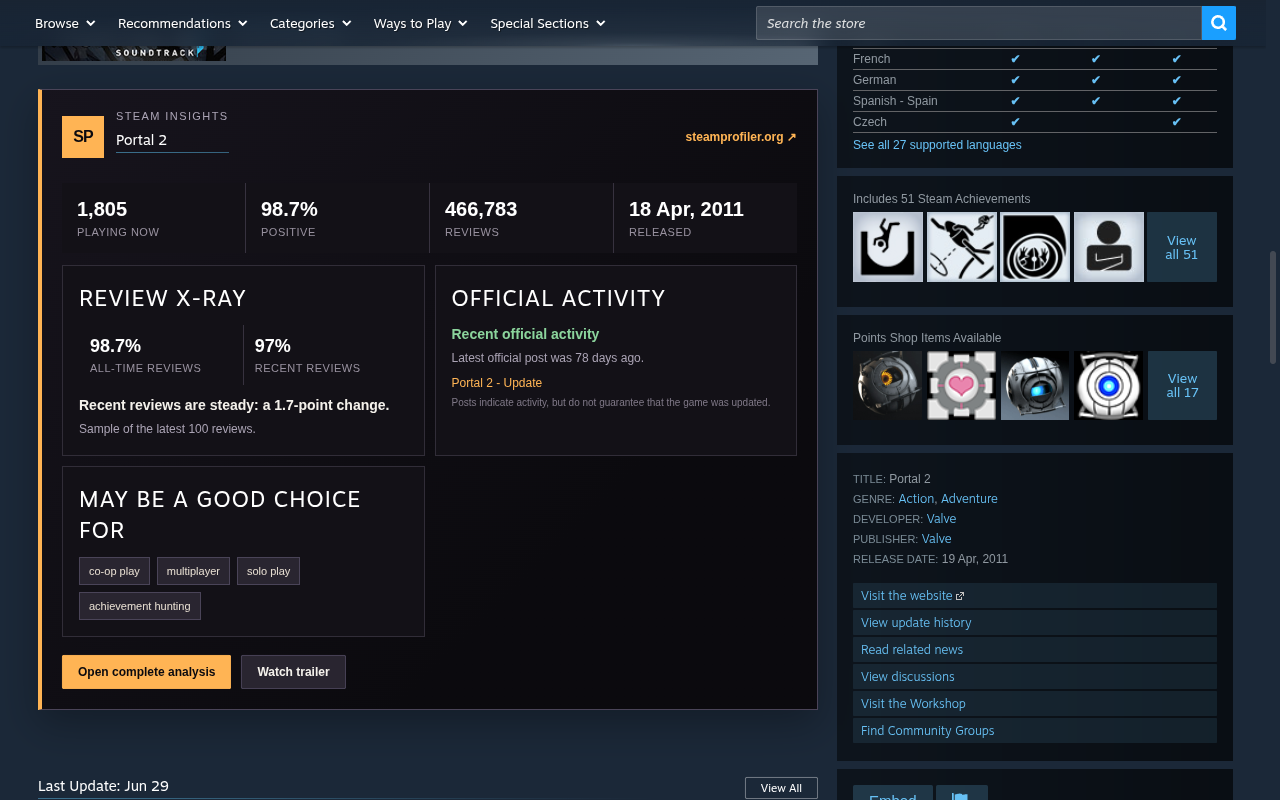
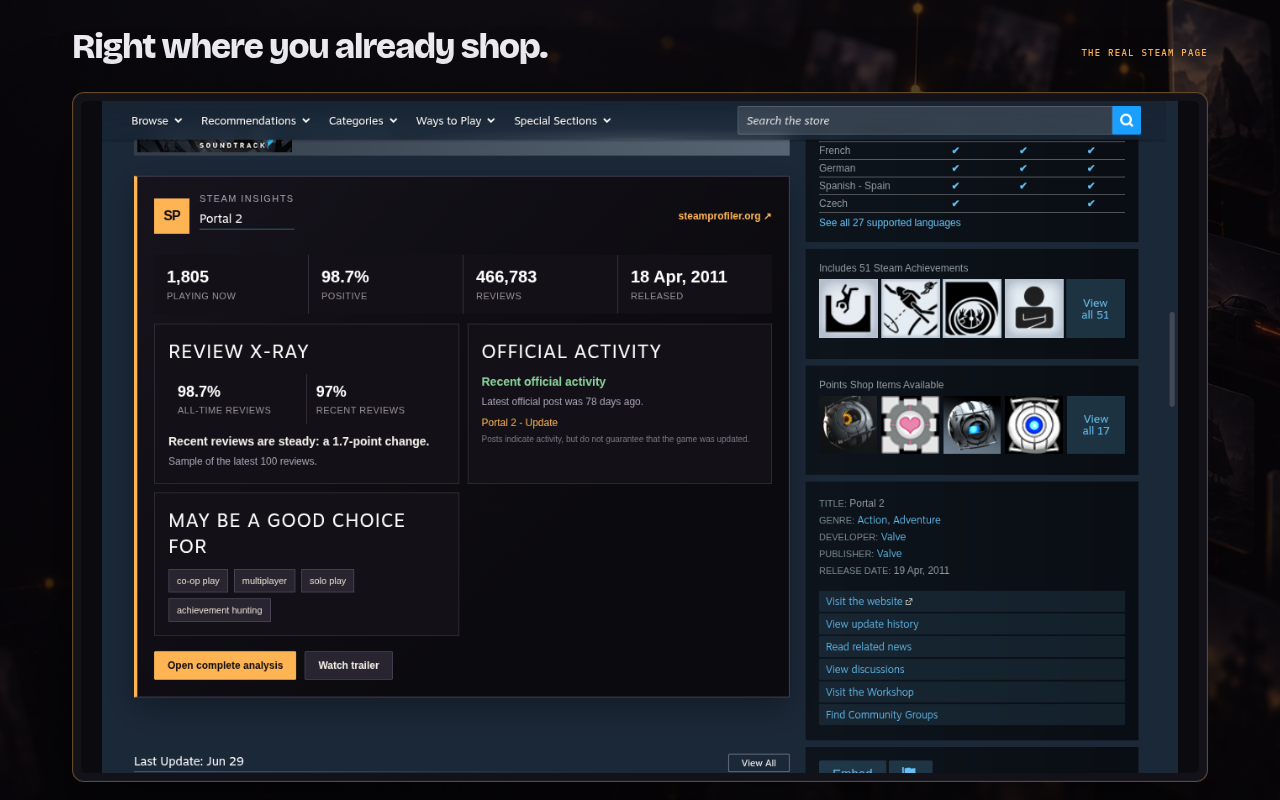
Loja: novas artes, capturas e roteiro de screenshots

diff --git a/store/art/PROMPTS.md b/store/art/PROMPTS.md
@@ -1,0 +1,40 @@
+# Generated art plates
+
+Both source plates were generated with Codex's built-in image generation tool.
+They contain no product text or product UI. `store/make.mjs` adds the real
+SteamProfiler typography, mark and browser captures.
+
+## `library-data-wide.png`
+
+```text
+Use case: stylized-concept
+Asset type: master promotional background for a browser-extension store marquee and small tile
+Primary request: create a premium cinematic abstract visualization of a PC game library becoming useful data: a field of dark floating rectangular game cards and compact metric bars, with one warm amber card glowing as the focal point; the scene should suggest discovery, comparison, live statistics, and personal play history without depicting a literal app screen
+Input images: the previous marquee is a style and palette reference only; the product screenshot is a UI reference only for the visual language of compact data cards, not an edit target
+Scene/backdrop: near-black layered space with deep graphite panels, subtle grid depth, faint amber atmospheric glow
+Subject: elegant floating game-card slabs and small data blocks, arranged into a coherent library constellation; one hero amber card with light traveling into nearby analytical blocks
+Style/medium: polished high-end 3D editorial render, restrained, tactile matte materials, subtle glass and metallic edges, believable depth, not generic sci-fi
+Composition/framing: extremely wide panoramic 5:2 composition; visual interest concentrated on the right two-thirds; the left third must remain calm, dark, and uncluttered for brand typography; all important shapes must survive a center crop to 11:7 for a small tile
+Lighting/mood: controlled warm amber rim light against deep black, subtle volumetric haze, sophisticated and confident
+Color palette: #0b0a0e, #131219, #282631, #4a4458, #ffb454, #c97f22, small restrained off-white highlights
+Materials/textures: matte graphite, smoked glass, fine brushed metal, soft amber emissive surfaces, very light film grain
+Constraints: no text, no letters, no numbers, no logos, no recognizable trademarks, no Steam logo, no controller, no keyboard, no people, no watermark; preserve generous clean negative space on the left; do not reproduce the reference layout literally
+Avoid: neon cyberpunk, blue lighting, purple-dominant palette, clutter, busy HUD, stock-photo look, fantasy game imagery, fake UI text
+```
+
+## `library-data-stage.png`
+
+```text
+Use case: stylized-concept
+Asset type: background plate for a 16:10 browser-extension store screenshot
+Primary request: create a restrained premium dark studio environment that can stage a real browser-extension analytics panel as the hero; abstract game-library cards recede into depth while thin amber data paths converge toward an empty central-left presentation area
+Input images: the wide generated plate is the exact style, lighting, palette, and material reference; the product screenshot shows the approximate rectangular footprint which will later be overlaid, not an edit target and must not be recreated
+Scene/backdrop: near-black graphite space with subtle floating library-card silhouettes and sparse analytical geometry, warm amber pool of light, atmospheric depth
+Subject: abstract environment only; a large clean dark region for an actual UI screenshot to be composited later
+Style/medium: polished high-end 3D editorial render matching the wide plate, tactile matte graphite, smoked glass, subtle brushed metal, quiet film grain
+Composition/framing: landscape 16:10; preserve a completely uncluttered rectangular stage covering roughly the left 62% and center 72% of the canvas; keep most abstract elements along the right edge and far background; leave clean upper-left space for a small brand label
+Lighting/mood: elegant, calm, useful, confident; amber edge light, no blue cast
+Color palette: #0b0a0e, #131219, #282631, #4a4458, #ffb454, #c97f22, tiny off-white highlights
+Constraints: background only; no text, no letters, no numbers, no logos, no trademarks, no Steam logo, no fake app interface, no UI screenshot, no people, no watermark; do not fill the empty staging area
+Avoid: generic cyberpunk, neon, heavy orange fog, busy HUD, fake legible text, game characters in foreground, product mockup device frames
+```

diff --git a/store/README.md b/store/README.md
@@ -13,7 +13,13 @@ file here was made. `listing.md` is the words; everything else is the pictures.
 | `screenshot-panel-1280x800.png` | First in the carousel, everywhere |
 | `screenshot-in-page-1280x800.png` | The panel in the Steam page it draws into |
 | `screenshot-settings-1280x800.png` | The settings, which is what a reviewer looks for |
-| `raw-panel.png` | The close-up the first screenshot is built around |
+| `captures/raw-panel.png` | The close-up the first screenshot is built around |
+
+The previous artwork is preserved in `claude-original/`. The current visual
+direction uses two text-free atmospheric plates in `art/`; store text, the
+SteamProfiler mark and all product UI are still rendered from real project
+assets by `make.mjs`. The untouched browser captures used by the compositor
+live in `captures/`.
 
 The store icon is `assets/icon-128.png` in the repository root, the same one
 the extension already ships.
@@ -24,7 +30,9 @@ the extension already ships.
 
 Needs the front end checked out beside this repository for its fonts, or
 `FONT_DIR` pointing at a copy of `site/fonts`. Nothing else, and no browser
-window: the tiles are rasterised headless.
+window: the tiles and framed screenshots are rasterised headless. The source
+captures in `captures/` are replaced only when `shots.mjs` is run; the Claude
+versions in `claude-original/` are never overwritten.
 
 ## Retaking the screenshots
 
